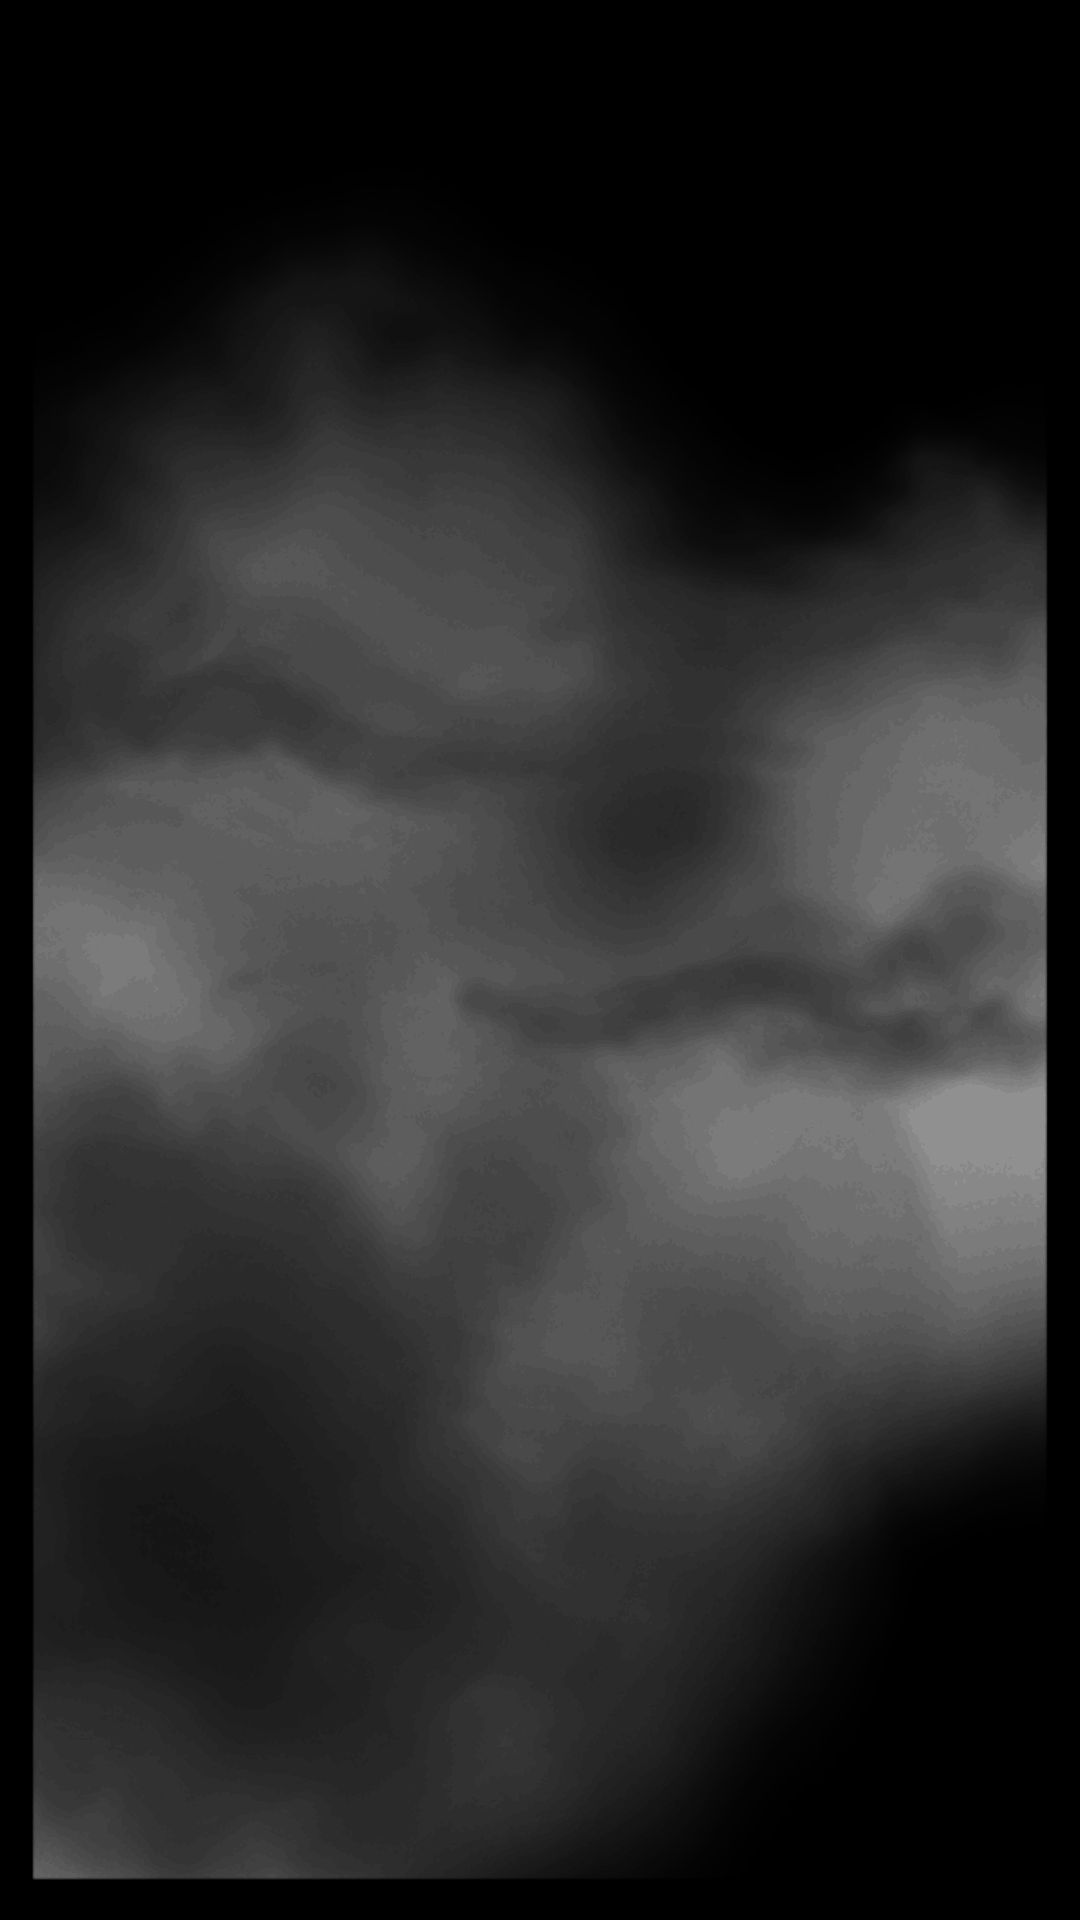
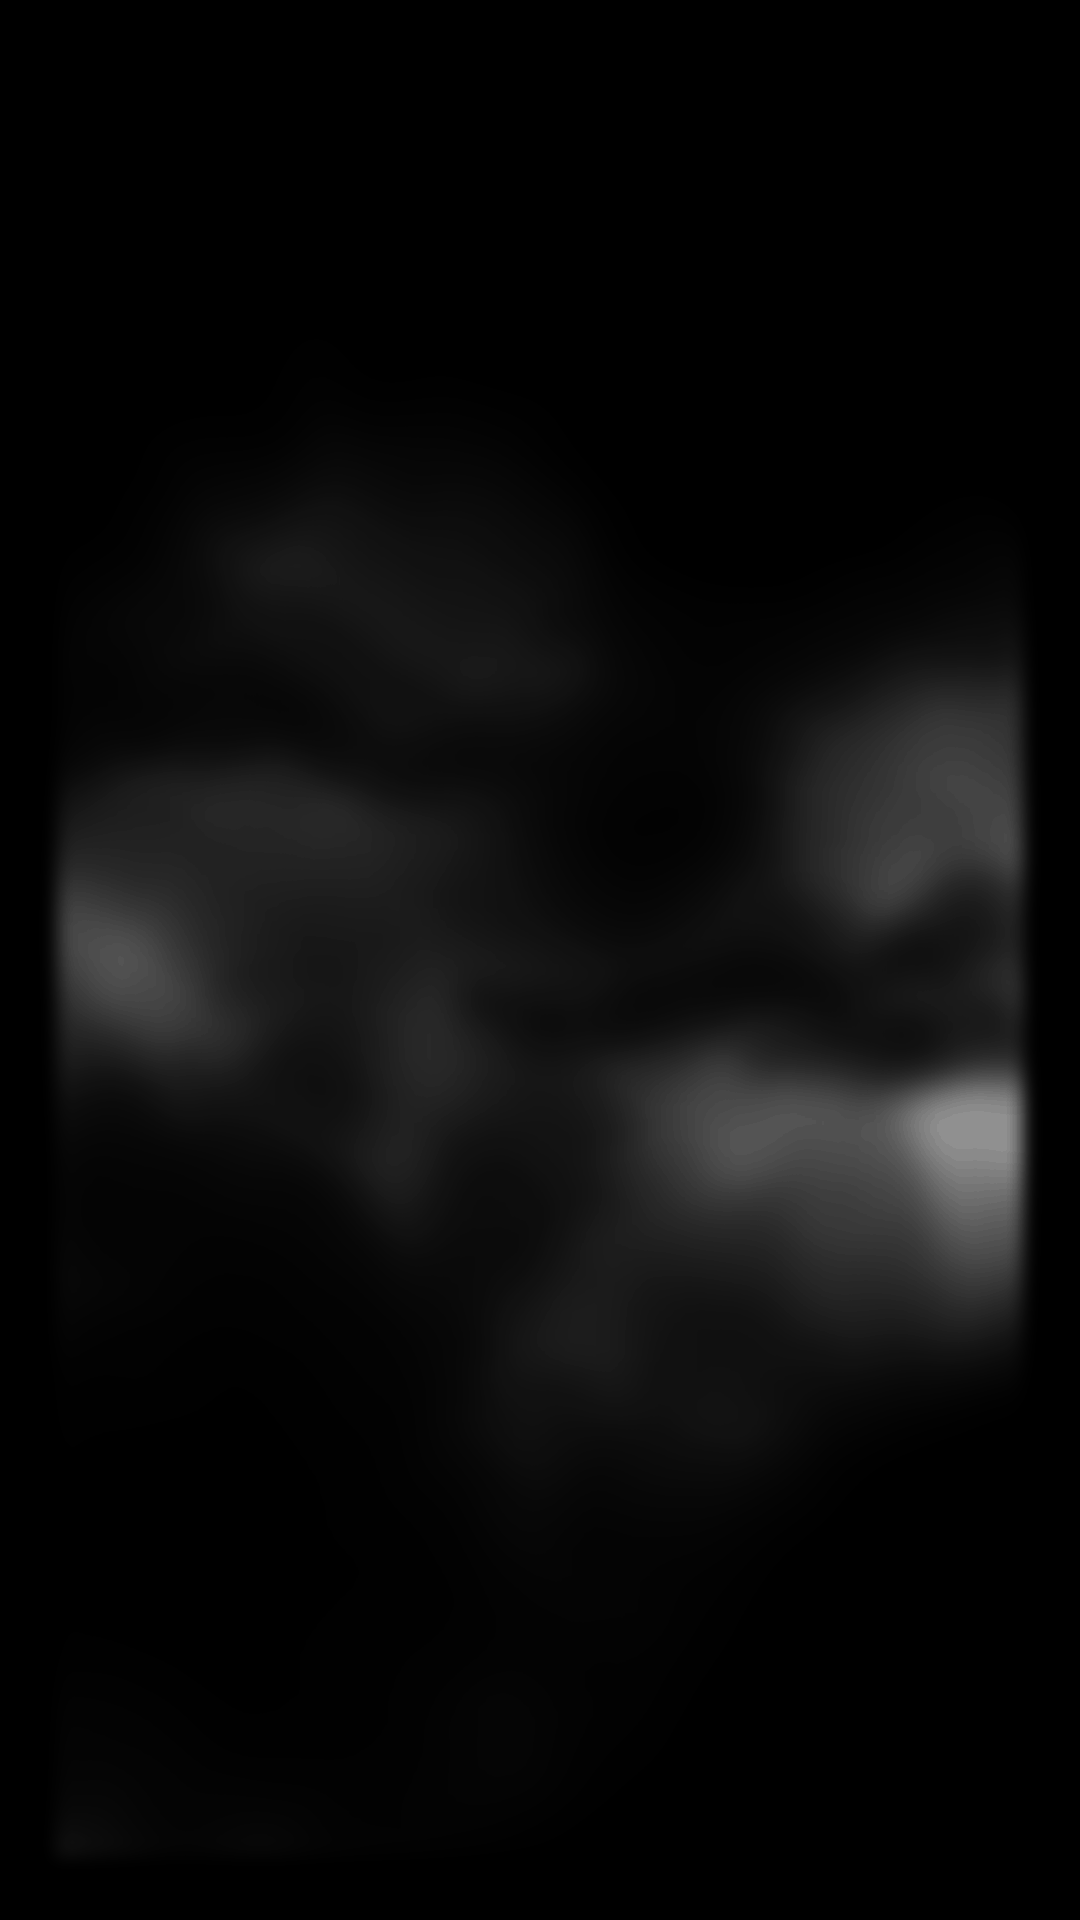
fix(asset): SW-006 R2 硬边羽化 — glade 湿径锥形硬边修正为纵向淡出
自审发现: 生图把 glade 湿径画成硬边锥形 (max|dA/dx|=0.431, 硬边行 5.5%),
违反 SW-012 批准设计'湿径上下缘都用纵向 mask 淡出'(批准 export 实测 0.024) 与
visual-assets 契约'无硬边抠图'.

- postprocess_r2.py 新增 soften_hard_edges(): 以批准 export 的 max|dA/dx| 为上限,
  二分最小 sigma 羽化, 羽化后重标定 alpha 密度 (确定性, 零 API)
- glade 0.431 -> 0.031 (对齐批准 0.024), 硬边行 5.5% -> 0.0%
- mist 0.397 -> 0.023, distant_glow 0.238 -> 0.004
- 结构层 trunks_canopy/vines_light 未羽化 (树廓/叶缘硬边属正常, 批准稿同样 72%/52%)
- 边缘像素实测 whiteish=0.00% magentaish=0.00% (无白边/无洋红溢色)
- manifest 重建: WebP 合计 1303952 -> 1020536 B; 新守卫 122/122, SW-015 80/80, 自检 14/14

diff --git a/design/assets/rainforest/candidates/SW-006/r2/scripts/postprocess_r2.py b/design/assets/rainforest/candidates/SW-006/r2/scripts/postprocess_r2.py
@@ -449,6 +449,82 @@ def build_zoom(layer_id: str, rgb: np.ndarray, alpha: np.ndarray) -> Dict[str, o
     return {"path": p, "spots": len(patches)}
 
 
+def edge_stats(alpha: np.ndarray) -> Dict[str, float]:
+    """逐行最大水平 alpha 梯度统计 (硬边指标)."""
+    if alpha.shape[1] < 2:
+        return {"max_gradient": 0.0, "hard_row_fraction": 0.0}
+    per_row = np.abs(np.diff(alpha, axis=1)).max(axis=0)
+    return {
+        "max_gradient": float(per_row.max()),
+        "hard_row_fraction": float((per_row > 0.25).mean()),
+    }
+
+
+def reference_edge_stats(layer_id: str) -> Optional[Dict[str, float]]:
+    """批准 design export 的同口径边缘统计 (作为羽化判据)."""
+    ref_rel = PALETTE_REFERENCE.get(layer_id)
+    if not ref_rel:
+        return None
+    p = REPO_ROOT / ref_rel
+    if not p.is_file():
+        return None
+    with Image.open(p) as im:
+        im.load()
+        a = np.asarray(im.convert("RGBA"))[..., 3].astype(np.float64) / 255.0
+    return edge_stats(a)
+
+
+def soften_hard_edges(alpha: np.ndarray, layer_id: str) -> Tuple[np.ndarray, Dict[str, object]]:
+    """把超出批准 design 边缘口径的硬边羽化掉 (确定性, 零 API).
+
+    依据 (SW-006 任务文件 + visual-assets 契约):
+    - glade 设计要求 "湿径上下缘都用纵向 mask 淡出", 批准 export 实测 max|dA/dx|=0.024.
+    - 生图模型把湿径画成了硬边锥形 (max|dA/dx|=0.369), 属 "硬边抠图", 契约明令禁止.
+    - 结构层 (trunks_canopy/vines_light) 的硬边是树廓/叶缘, 属正常, 不羽化.
+
+    做法: 用批准 export 的 max|dA/dx| 作上限, 二分出一个最小 sigma, 使羽化后
+    既达标又不过度模糊 (尽量保留形态). 羽化后重新标定 alpha 密度, 保证最大 alpha 与
+    半透明占比不因羽化而漂移.
+    """
+    cur = edge_stats(alpha)
+    ref = reference_edge_stats(layer_id)
+    diag: Dict[str, object] = {"before": cur, "reference": ref}
+    if ref is None:
+        diag["applied"] = False
+        return alpha, diag
+    target = max(float(ref["max_gradient"]), 0.02)
+    if cur["max_gradient"] <= target * 1.5:
+        diag["applied"] = False
+        diag["reason"] = f"当前 max|dA/dx|={cur['max_gradient']:.3f} 未显著超批准口径 {target:.3f}"
+        return alpha, diag
+
+    from PIL import ImageFilter
+
+    best = None
+    for sigma in (2, 3, 4, 6, 8, 10, 12, 16, 20):
+        blurred = np.asarray(
+            Image.fromarray((alpha * 255).astype(np.uint8)).filter(ImageFilter.GaussianBlur(sigma))
+        ).astype(np.float64) / 255.0
+        st = edge_stats(blurred)
+        if st["max_gradient"] <= target * 1.5:
+            best = (sigma, blurred, st)
+            break
+    if best is None:
+        diag["applied"] = False
+        diag["reason"] = "羽化到最大 sigma 仍未达标"
+        return alpha, diag
+
+    sigma, blurred, st = best
+    out, adiag = normalize_alpha_density(blurred, layer_id)
+    diag.update({
+        "applied": True,
+        "sigma": sigma,
+        "after": edge_stats(out),
+        "alpha_renormalized": adiag,
+    })
+    return out, diag
+
+
 def measure(rgb: np.ndarray, alpha: np.ndarray, bg: np.ndarray) -> Dict[str, object]:
     """逐像素量检: 边缘 alpha, 底色残留, 半透明占比, 硬边."""
     a = alpha
@@ -581,6 +657,8 @@ def main() -> int:
         alpha = np.asarray(a_im).astype(np.float64) / 255.0
         # 量化 + 去噪 (视觉无损, 降熵改善 WebP 体积)
         alpha = quantize_alpha(alpha)
+        # 硬边羽化: 使边缘口径回到批准 design (确定性, 零 API)
+        alpha, edge_diag = soften_hard_edges(alpha, layer_id)
         # alpha 密度标定到批准 design 实测统计
         alpha, alpha_diag = normalize_alpha_density(alpha, layer_id)
         # 色域收敛到批准 design 色板统计 (只取统计量, 不复制 design 像素)
@@ -614,6 +692,7 @@ def main() -> int:
             "webp_quality": webp_q,
             "fit": fit_info,
             "key": key_diag,
+            "edge_soften": edge_diag,
             "alpha_normalize": alpha_diag,
             "palette_transfer": palette_diag,
             "measure": m,
